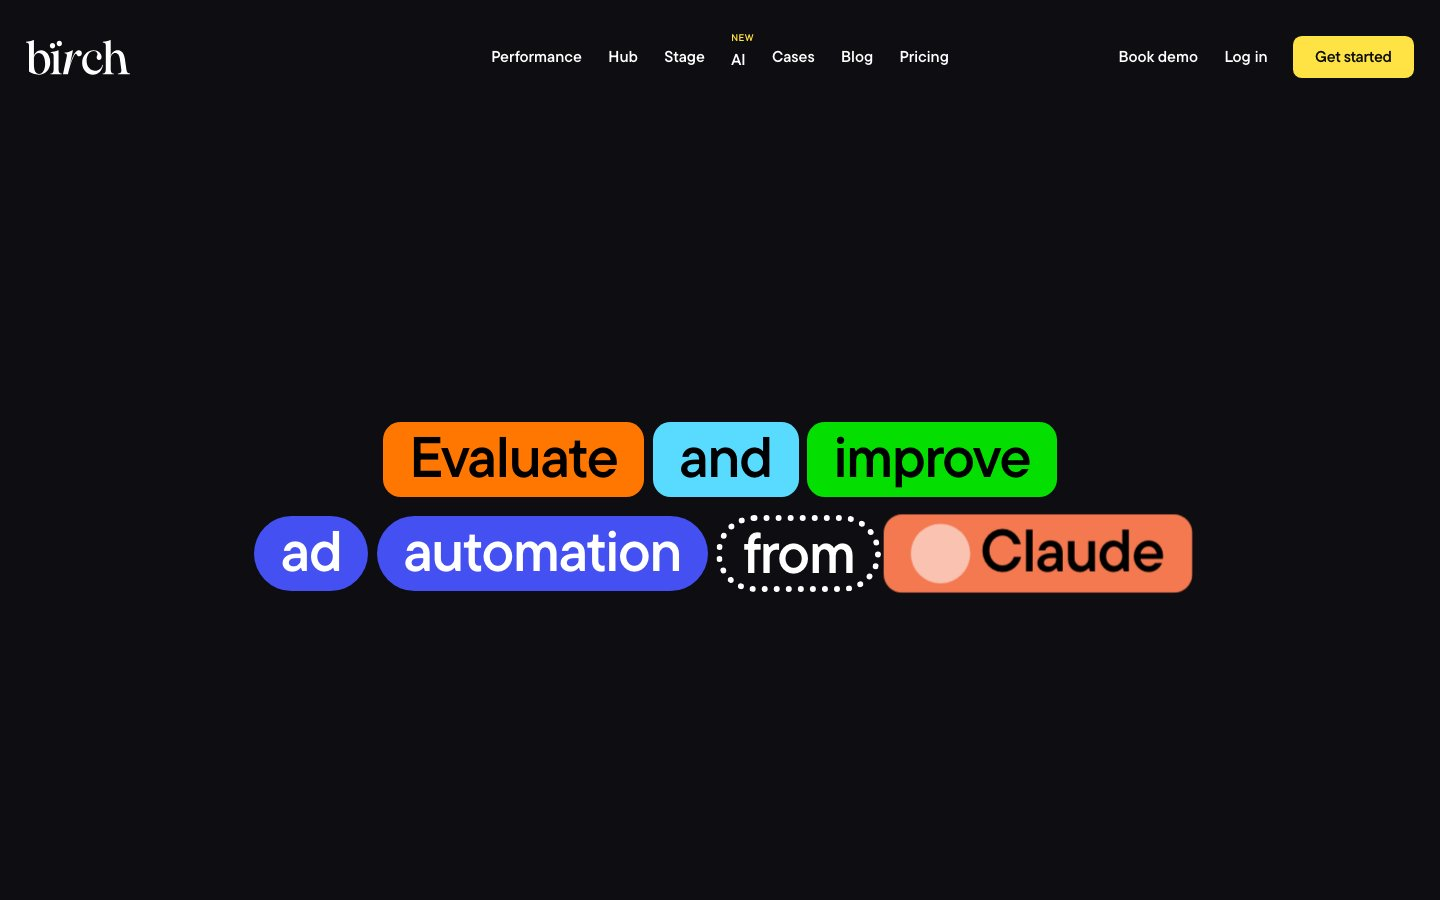
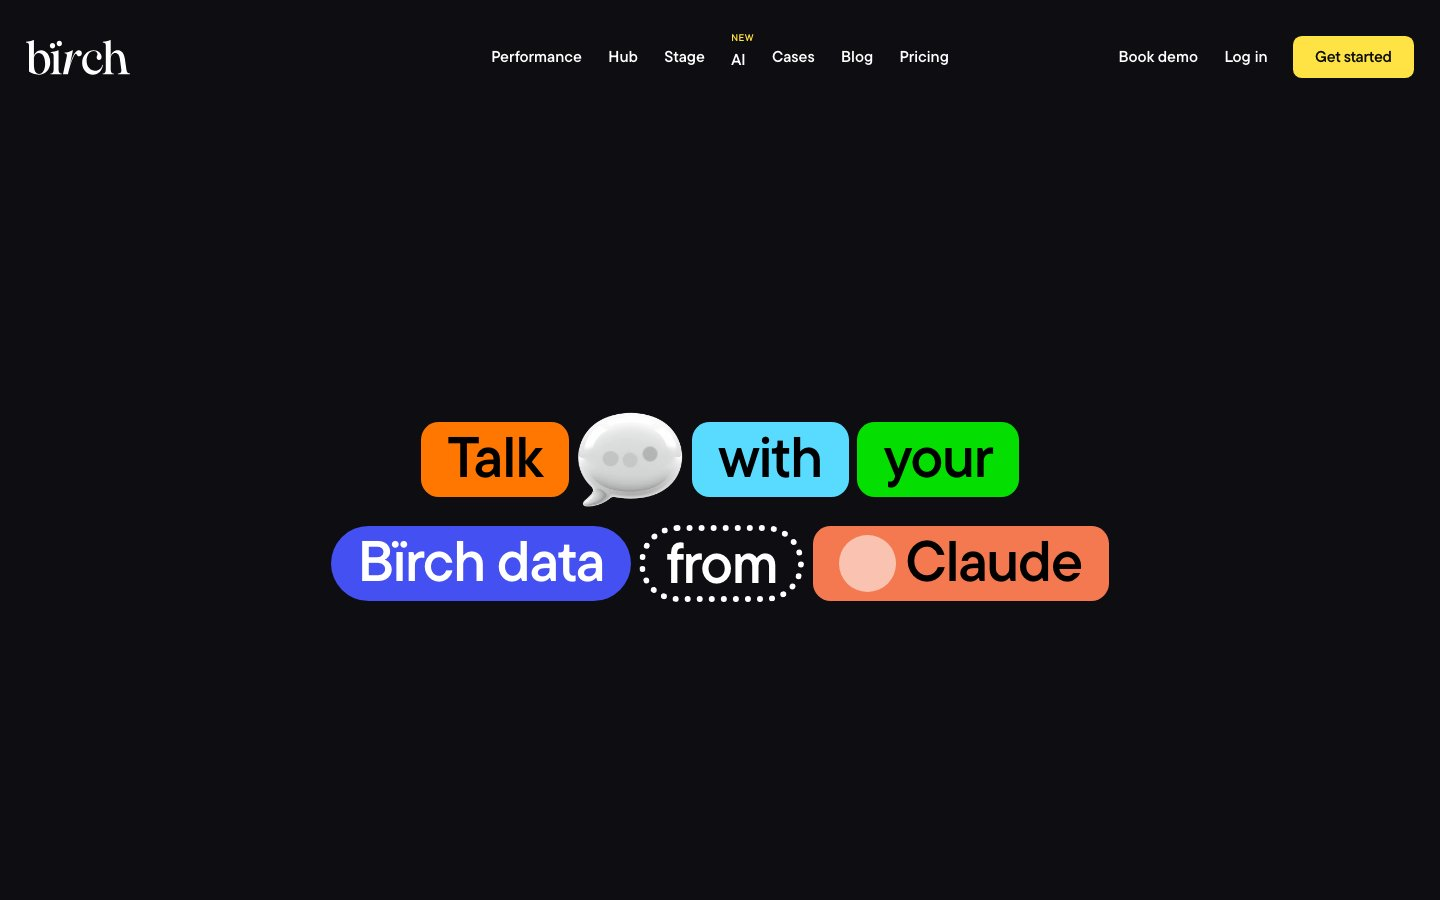
feat: hero — новый текст пилюль, бабл с точками, фикс зазора куба
- тексты: Talk/with/your, Bïrch data, from (по макету 824:1312)
- бабл (webp) с тремя точками-«печатает» между Talk и with
- ритм точек — дробь (три быстрых тапа + пауза), эхо ритма куба
- мобилка: with your в одну строку
- from снова белый (текст + пунктир)
- куб отодвинут назад на пол-глубины: передняя грань покоится в z=0
  без perspective-зума, честные 8px до from (был 1.6px)

Changed region(s): [[0.1562, 0.4356, 0.8438, 0.6844]]

diff --git a/birch-mcp.html b/birch-mcp.html
@@ -1332,6 +1332,46 @@
     top: 0.048em;               /* (0.154em - 0.058em) / 2 */
   }
 
+  /* ── Speech bubble with typing dots — sits between "Talk" and "with" ──
+     The dots pulse in sequence to read as "someone is typing". */
+  .hero-mcp__bubble {
+    flex: 0 0 auto;
+    align-self: center;
+    position: relative;
+    width: 1.846em;             /* 96px @ 52px */
+  }
+  .hero-mcp__bubble-img {
+    width: 100%;
+    height: auto;
+    display: block;
+  }
+  .hero-mcp__dots {
+    position: absolute;
+    left: 50%;
+    top: 42%;                   /* centre of the round body, above the tail */
+    transform: translate(-50%, -50%);
+    display: flex;
+    gap: 0.077em;               /* 4px @ 52px */
+  }
+  .hero-mcp__dot {
+    width: 0.269em;             /* 14px @ 52px */
+    height: 0.269em;
+    border-radius: 50%;
+    background: var(--color-text-grey);
+    /* drum-roll cadence: three quick springy taps, then a rest — echoes the
+       cube's snap-and-hold rhythm rather than a smooth continuous wave */
+    animation: heroTyping 1.3s infinite cubic-bezier(0.34, 1.56, 0.64, 1) both;
+  }
+  .hero-mcp__dot:nth-child(2) { animation-delay: 0.13s; }
+  .hero-mcp__dot:nth-child(3) { animation-delay: 0.26s; }
+
+  @keyframes heroTyping {
+    0%   { opacity: 0.3; transform: translateY(0.12em); }
+    16%  { opacity: 1;   transform: translateY(-0.15em); }
+    38%  { opacity: 0.3; transform: translateY(0.12em); }
+    100% { opacity: 0.3; transform: translateY(0.12em); }  /* rest between rolls */
+  }
+
   /* ── Swap: the last pill cycles through the AI tools ──
      Variants are absolutely positioned and nothing clips them, so the overshoot
      is thrown clear of the row instead of being eaten by a window. */
@@ -1344,6 +1384,8 @@
     /* exactly one pill tall: line-height 1.1 + padding 0.058 + 0.154 */
     height: 1.312em;
     perspective: 16em;
+    /* cube half-depth — shared by the cube's push-back and the faces */
+    --r: 0.656em;
     /* width is driven per-frame from JS (rounded), never by a CSS transition */
   }
 
@@ -1351,6 +1393,10 @@
     position: absolute;
     inset: 0;
     transform-style: preserve-3d;
+    /* push the whole cube back by its half-depth so the FRONT face rests at
+       z=0 — no perspective zoom, so it keeps its natural width and a true 8px
+       gap to "from"; the incoming face still swings through depth on the turn */
+    transform: translateZ(calc(-1 * var(--r))) rotateX(var(--turn, 0deg));
     transition: transform 0.45s cubic-bezier(0.65, 0, 0.35, 1);
   }
 
@@ -1360,8 +1406,6 @@
     top: 0;
     width: 100%;
     backface-visibility: hidden;
-    /* half the pill height — the cube's radius */
-    --r: 0.656em;
   }
   .hero-mcp__swap .hero-mcp__pill:nth-child(1) { transform: rotateX(0deg)   translateZ(var(--r)); }
   .hero-mcp__swap .hero-mcp__pill:nth-child(2) { transform: rotateX(90deg)  translateZ(var(--r)); }
@@ -1384,6 +1428,7 @@
 
   @media (prefers-reduced-motion: reduce) {
     .hero-mcp__cube { transition: none; }
+    .hero-mcp__dot  { animation: none; opacity: 0.7; }
   }
 
   @media (max-width: 767px) {
@@ -1438,16 +1483,18 @@
 <section class="hero-mcp">
   <div class="container hero-mcp__stage">
     <div class="hero-mcp__pills">
-      <span class="hero-mcp__pill hero-mcp__pill--orange hero-mcp__pill--sq">Evaluate</span>
+      <span class="hero-mcp__pill hero-mcp__pill--orange hero-mcp__pill--sq">Talk</span>
+      <span class="hero-mcp__bubble">
+        <img class="hero-mcp__bubble-img" src="https://cdn.prod.website-files.com/6716718ea408f53194adf9a9/6a624f92ba30806cc73a822b_bubble%20icon_4x.webp" alt="" />
+        <span class="hero-mcp__dots"><i class="hero-mcp__dot"></i><i class="hero-mcp__dot"></i><i class="hero-mcp__dot"></i></span>
+      </span>
       <i class="hero-mcp__brk hero-mcp__brk--mb"></i>
-      <span class="hero-mcp__pill hero-mcp__pill--light-blue hero-mcp__pill--sq">and</span>
-      <i class="hero-mcp__brk hero-mcp__brk--mb"></i>
-      <span class="hero-mcp__pill hero-mcp__pill--green hero-mcp__pill--sq">improve</span>
+      <span class="hero-mcp__pill hero-mcp__pill--light-blue hero-mcp__pill--sq">with</span>
+      <span class="hero-mcp__pill hero-mcp__pill--green hero-mcp__pill--sq">your</span>
 
       <i class="hero-mcp__brk"></i>
 
-      <span class="hero-mcp__pill hero-mcp__pill--indigo hero-mcp__pill--pill">ad</span>
-      <span class="hero-mcp__pill hero-mcp__pill--indigo hero-mcp__pill--pill">automation</span>
+      <span class="hero-mcp__pill hero-mcp__pill--indigo hero-mcp__pill--pill">Bïrch data</span>
       <i class="hero-mcp__brk hero-mcp__brk--mb"></i>
       <span class="hero-mcp__pill hero-mcp__pill--dotted hero-mcp__pill--pill">from</span>
       <i class="hero-mcp__brk hero-mcp__brk--mb"></i>
@@ -2287,7 +2334,8 @@
     function swapTo(next) {
       animateWidth(widths[index], widths[next]);
       turns += 1;
-      cube.style.transform = 'rotateX(-' + (turns * 90) + 'deg)';
+      /* only drive the rotation; the cube's push-back translateZ stays in CSS */
+      cube.style.setProperty('--turn', (-turns * 90) + 'deg');
       index = next;
     }
 
